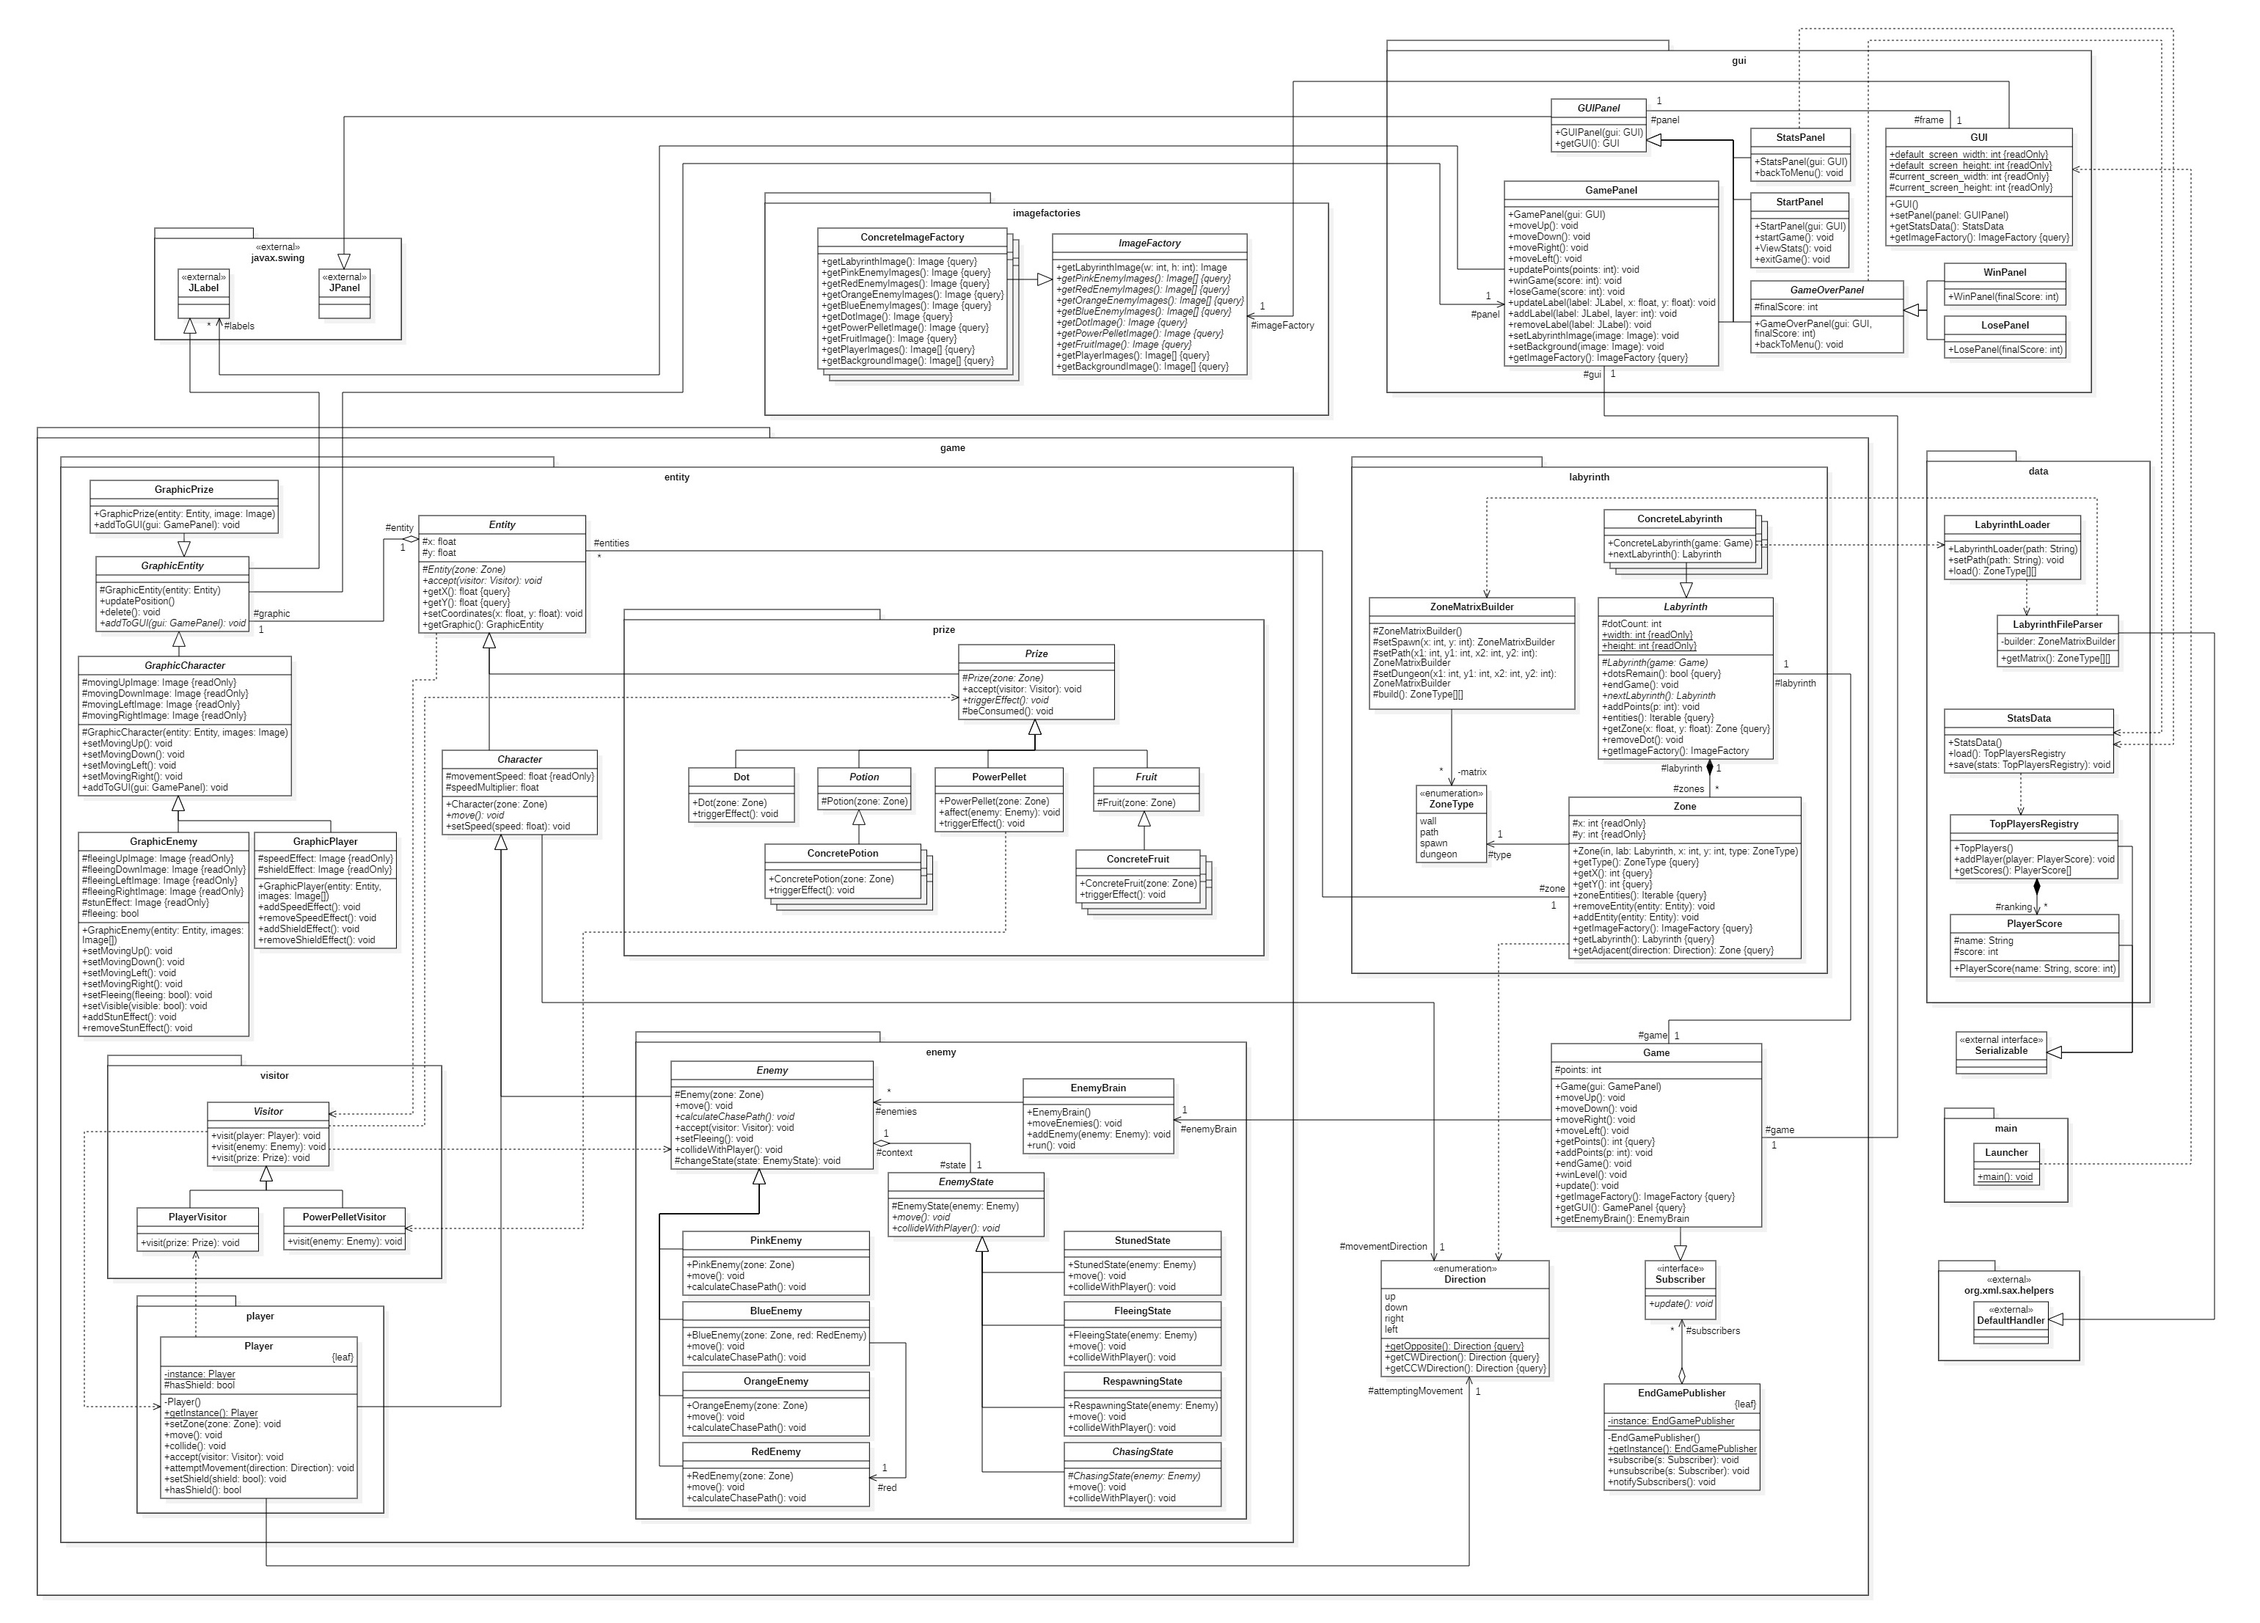
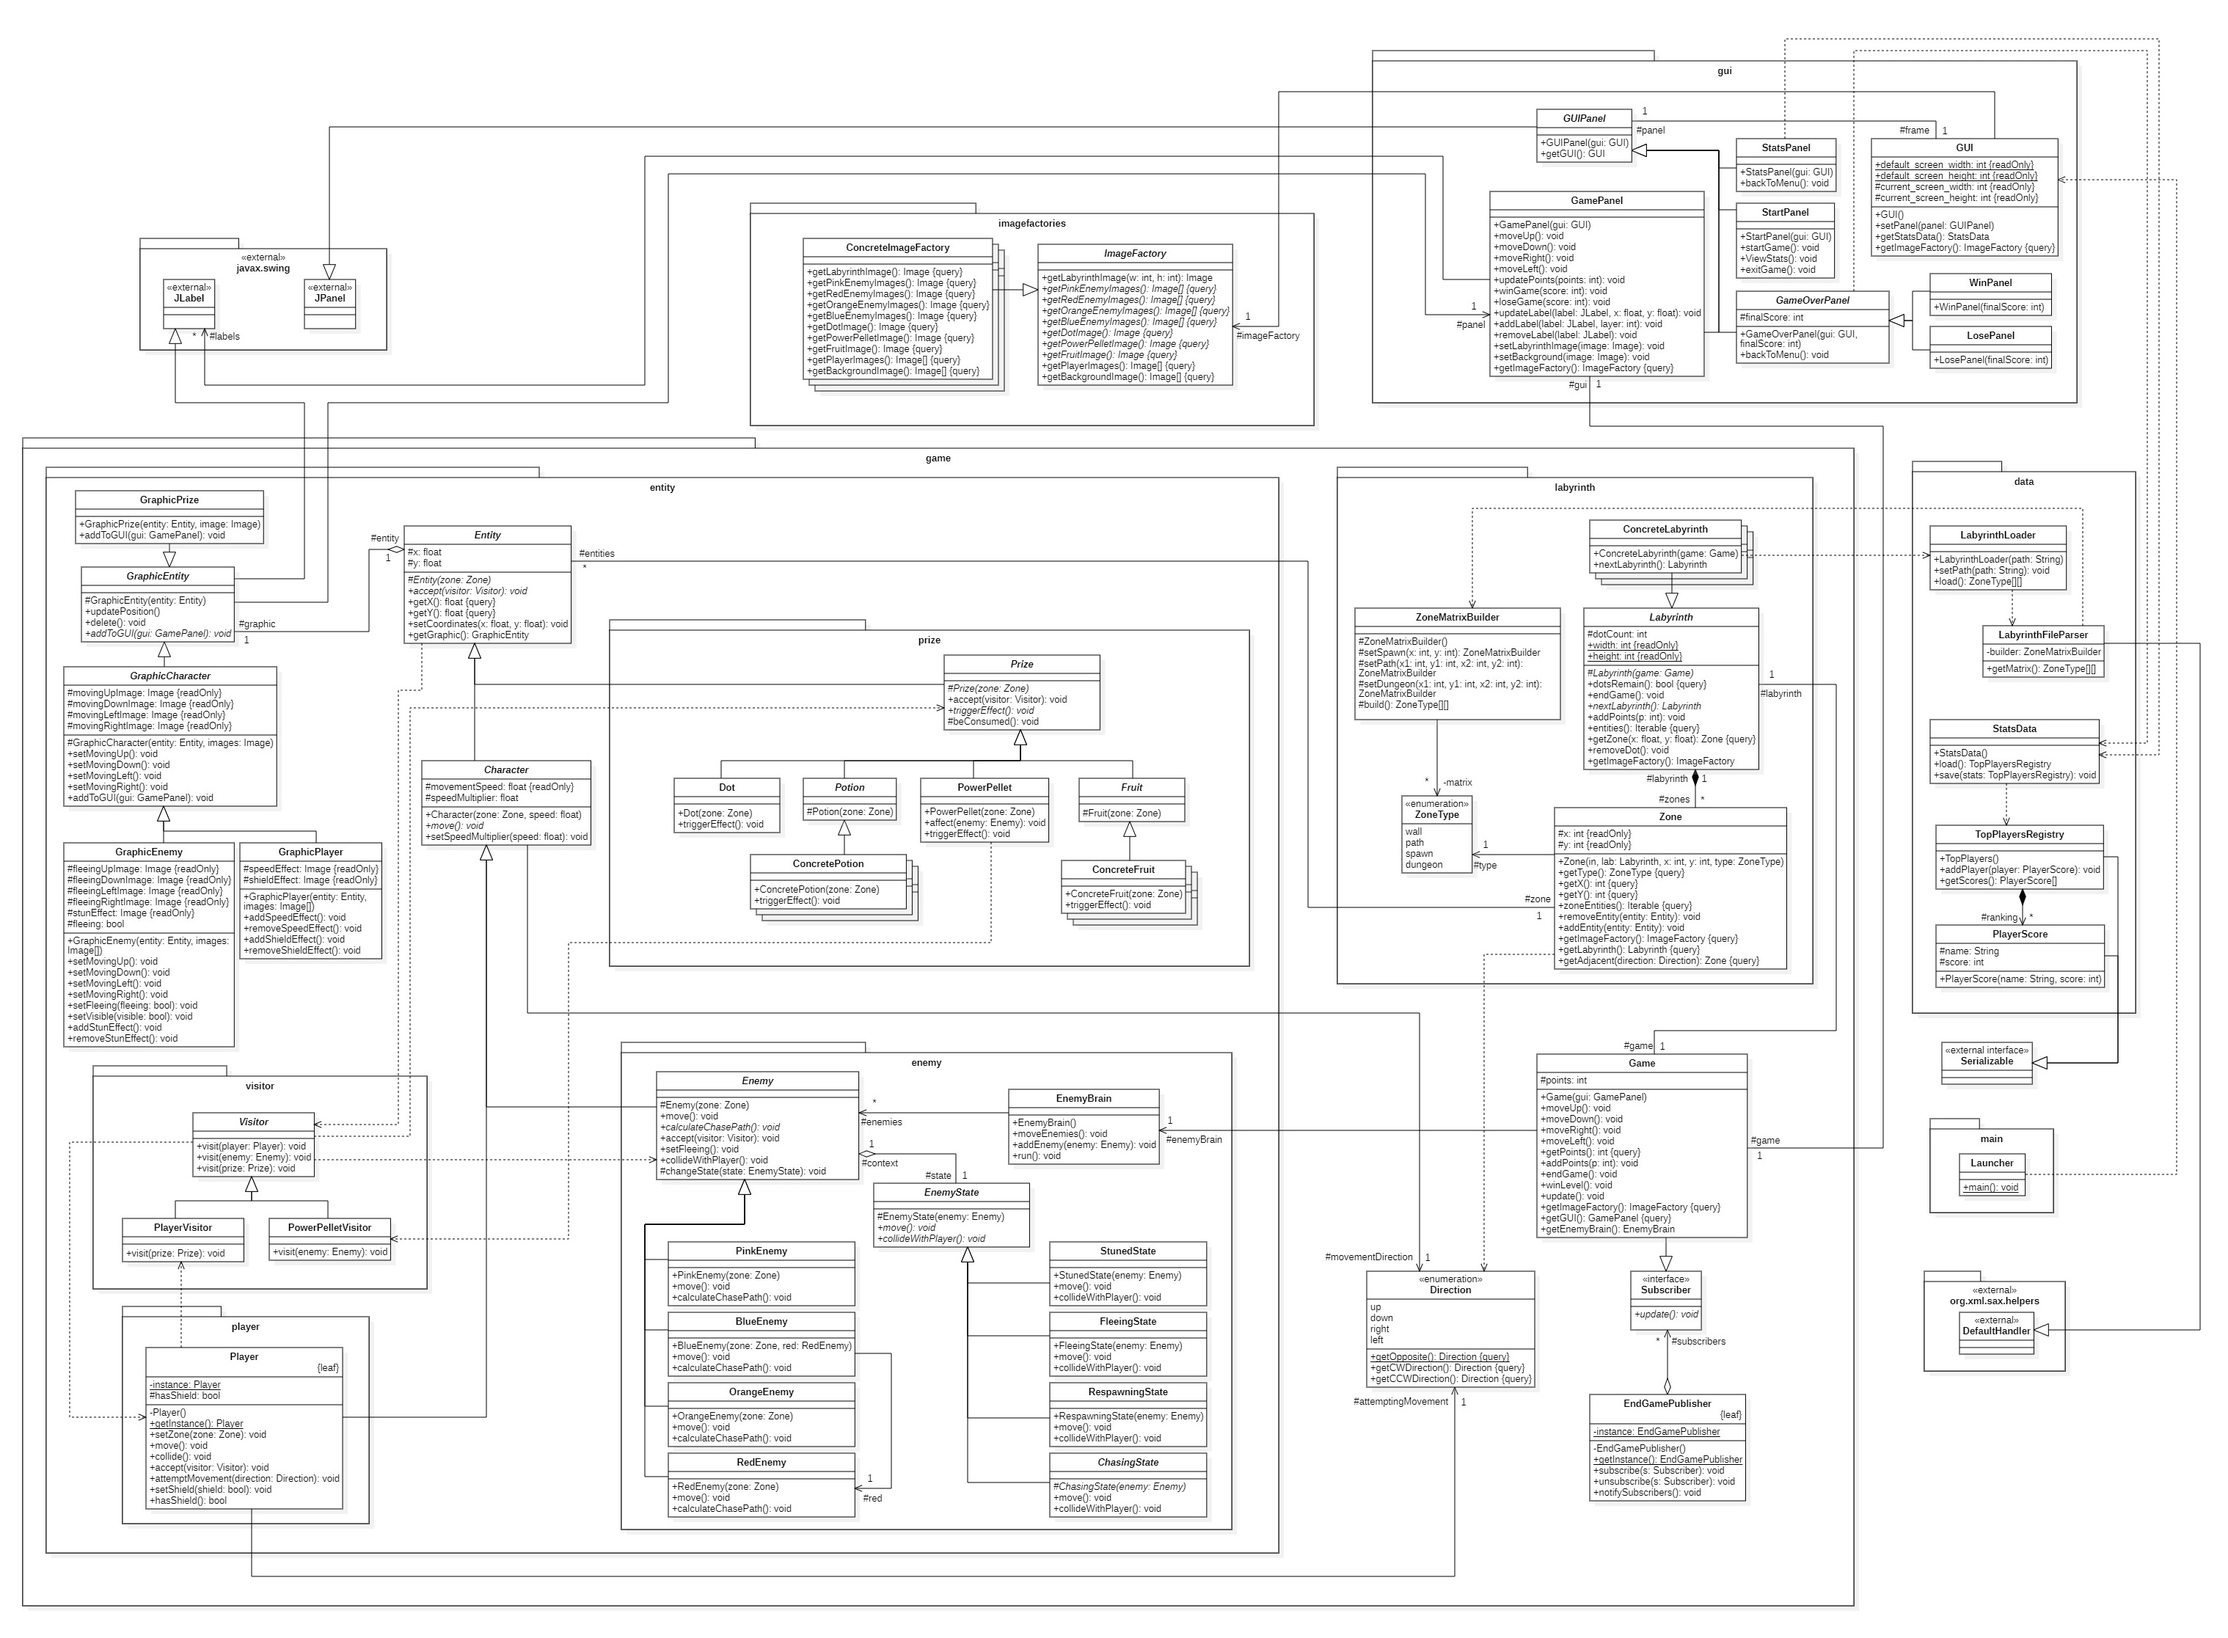
Modificado diagrama de clases
Modificado constructor de Character

diff --git a/src/game/entity/player/Player.java b/src/game/entity/player/Player.java
@@ -11,7 +11,7 @@ import game.entity.visitor.Visitor;
 
 public class Player extends Character{
 	
-	private static final float MOVEMENT_LENGTH = 0.1f;		// Distancia que puede recorrer el personaje en un movimiento
+	private static final float MOVEMENT_LENGTH = 0.1f;		// Distancia que puede recorrer el personaje en un movimiento // FIXME reemplazar por constante en Character -AF
 	
 	protected float movementSpeed;
 	protected Direction attemptingMovement;
@@ -21,7 +21,7 @@ public class Player extends Character{
 	 * Crea una nueva instancia de Player.
 	 */
 	private Player() {
-		super(null);
+		super(null, 0.1f);
 		attemptingMovement = null;
 	}
 	

diff --git a/src/game/entity/Character.java b/src/game/entity/Character.java
@@ -5,12 +5,13 @@ import game.labyrinth.Zone;
 
 public abstract class Character extends Entity {
 
-	protected final float MOVEMENT_SPEED = 0.1f;
+	protected final float movementSpeed;
 	protected float speedMultiplier;
 	protected Direction movementDirection;
 	
-	protected Character(Zone zone) {
+	protected Character(Zone zone, float movementSpeed) {
 		super(zone);
+		this.movementSpeed = movementSpeed;
 		movementDirection = Direction.LEFT;
 	}
 	

diff --git a/src/game/entity/enemy/Enemy.java b/src/game/entity/enemy/Enemy.java
@@ -18,7 +18,7 @@ public abstract class Enemy extends Character{
 	 * @param zone La zona en la que se encontrara el nuevo enemigo.
 	 */
 	protected Enemy(Zone zone) {
-		super(zone);
+		super(zone, 0.15f);
 		state = new ChasingState(this);
 	}
 	
